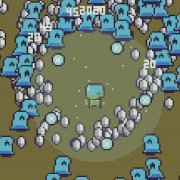
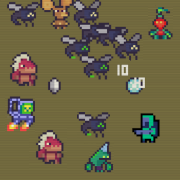
change sprites

diff --git a/src/asset.ts b/src/asset.ts
@@ -1,53 +1,55 @@
 import { CTX, texture } from "./core/canvas"
 
-const img = async (data: string) => {
-    const obj = new Image()
-    obj.src = data
-    await new Promise((resolve) => {
-        obj.onload = resolve
-    })
-    return obj
+const img = async (url: string) => {
+    const img = new Image()
+    img.src = url
+    await img.decode()
+    return img
 }
 
 export type Assets = Awaited<ReturnType<typeof loadAssets>>
 
 export const loadAssets = async () => {
-    const hero = await img(
[1 lines of base64/hex data omitted]
-    )
-    const mob0 = await img(
[1 lines of base64/hex data omitted]
-    )
-    const mob1 = await img(
[1 lines of base64/hex data omitted]
-    )
-    const mob2 = await img(
[1 lines of base64/hex data omitted]
-    )
-    const mob3 = await img(
[1 lines of base64/hex data omitted]
-    )
-    const coin = await img(
[1 lines of base64/hex data omitted]
-    )
-    const bullet = await img(
[1 lines of base64/hex data omitted]
-    )
-    const elements = await img(
[1 lines of base64/hex data omitted]
-    )
-    const rocks = await img(
[1 lines of base64/hex data omitted]
-    )
-    const crate = await img(
[1 lines of base64/hex data omitted]
-    )
-    const saber = await img(
[1 lines of base64/hex data omitted]
-    )
-    const orb = await img(
[1 lines of base64/hex data omitted]
-    )
+    const urls = [
+        "./assets/hero.png",
+
+        "./assets/mob0.png",
+        "./assets/mob1.png",
+        "./assets/mob2.png",
+        "./assets/mob3.png",
+        "./assets/mob0boss.png",
+        "./assets/mob1boss.png",
+        "./assets/mob2boss.png",
+        "./assets/mob3boss.png",
+
+        "./assets/coin.png",
+        "./assets/bullet.png",
+        "./assets/elements.png",
+        "./assets/rocks.png",
+        "./assets/saber.png",
+        "./assets/orb.png",
+    ]
+    const assetsLoaded = urls.map(img)
+
+    const [
+        hero,
+
+        mob0,
+        mob1,
+        mob2,
+        mob3,
+        mob0boss,
+        mob1boss,
+        mob2boss,
+        mob3boss,
+
+        coin,
+        bullet,
+        elements,
+        rocks,
+        saber,
+        orb,
+    ] = await Promise.all(assetsLoaded)
 
     // included normal and flipped versions for asymmetric sprites
     // note: make sure spritesheet frames are always in 1 row
@@ -56,16 +58,16 @@ export const loadAssets = async () => {
         hero: [
             // normal
             texture((ctx) => frame(ctx, hero, 0, 0, 16, 0), 16, 16),
+            texture((ctx) => frame(ctx, hero, 0, 0, 16, 0), 16, 16),
+            texture((ctx) => frame(ctx, hero, 0, 0, 16, 0), 16, 16),
             texture((ctx) => frame(ctx, hero, 0, 0, 16, 1), 16, 16),
             texture((ctx) => frame(ctx, hero, 0, 0, 16, 2), 16, 16),
-            texture((ctx) => frame(ctx, hero, 0, 0, 16, 3), 16, 16),
-            texture((ctx) => frame(ctx, hero, 0, 0, 16, 4), 16, 16),
             // flipped
+            texture((ctx) => flipFrame(ctx, hero, 0, 0, 16, 0), 16, 16),
+            texture((ctx) => flipFrame(ctx, hero, 0, 0, 16, 0), 16, 16),
             texture((ctx) => flipFrame(ctx, hero, 0, 0, 16, 0), 16, 16),
             texture((ctx) => flipFrame(ctx, hero, 0, 0, 16, 1), 16, 16),
             texture((ctx) => flipFrame(ctx, hero, 0, 0, 16, 2), 16, 16),
-            texture((ctx) => flipFrame(ctx, hero, 0, 0, 16, 3), 16, 16),
-            texture((ctx) => flipFrame(ctx, hero, 0, 0, 16, 4), 16, 16),
         ],
         mob0: [
             // normal
@@ -107,8 +109,47 @@ export const loadAssets = async () => {
             texture((ctx) => flipFrame(ctx, mob3, 0, 0, 16, 1), 16, 16),
             texture((ctx) => flipFrame(ctx, mob3, 0, 0, 16, 2), 16, 16),
         ],
+        mob0boss: [
+            // normal
+            texture((ctx) => frame(ctx, mob0boss, 0, 0, 16, 0), 16, 16),
+            texture((ctx) => frame(ctx, mob0boss, 0, 0, 16, 1), 16, 16),
+            texture((ctx) => frame(ctx, mob0boss, 0, 0, 16, 2), 16, 16),
+            //flipped
+            texture((ctx) => flipFrame(ctx, mob0boss, 0, 0, 16, 0), 16, 16),
+            texture((ctx) => flipFrame(ctx, mob0boss, 0, 0, 16, 1), 16, 16),
+            texture((ctx) => flipFrame(ctx, mob0boss, 0, 0, 16, 2), 16, 16),
+        ],
+        mob1boss: [
+            // normal
+            texture((ctx) => frame(ctx, mob1boss, 0, 0, 16, 0), 16, 16),
+            texture((ctx) => frame(ctx, mob1boss, 0, 0, 16, 1), 16, 16),
+            texture((ctx) => frame(ctx, mob1boss, 0, 0, 16, 2), 16, 16),
+            //flipped
+            texture((ctx) => flipFrame(ctx, mob1boss, 0, 0, 16, 0), 16, 16),
+            texture((ctx) => flipFrame(ctx, mob1boss, 0, 0, 16, 1), 16, 16),
+            texture((ctx) => flipFrame(ctx, mob1boss, 0, 0, 16, 2), 16, 16),
+        ],
+        mob2boss: [
+            // normal
+            texture((ctx) => frame(ctx, mob2boss, 0, 0, 16, 0), 16, 16),
+            texture((ctx) => frame(ctx, mob2boss, 0, 0, 16, 1), 16, 16),
+            texture((ctx) => frame(ctx, mob2boss, 0, 0, 16, 2), 16, 16),
+            //flipped
+            texture((ctx) => flipFrame(ctx, mob2boss, 0, 0, 16, 0), 16, 16),
+            texture((ctx) => flipFrame(ctx, mob2boss, 0, 0, 16, 1), 16, 16),
+            texture((ctx) => flipFrame(ctx, mob2boss, 0, 0, 16, 2), 16, 16),
+        ],
+        mob3boss: [
+            // normal
+            texture((ctx) => frame(ctx, mob3boss, 0, 0, 16, 0), 16, 16),
+            texture((ctx) => frame(ctx, mob3boss, 0, 0, 16, 1), 16, 16),
+            texture((ctx) => frame(ctx, mob3boss, 0, 0, 16, 2), 16, 16),
+            //flipped
+            texture((ctx) => flipFrame(ctx, mob3boss, 0, 0, 16, 0), 16, 16),
+            texture((ctx) => flipFrame(ctx, mob3boss, 0, 0, 16, 1), 16, 16),
+            texture((ctx) => flipFrame(ctx, mob3boss, 0, 0, 16, 2), 16, 16),
+        ],
         bullet,
-        crate,
         saber,
         orb,
         eHeart: texture((ctx) => frame(ctx, elements, 0, 0, 8, 0), 8, 8),

diff --git a/src/mob.ts b/src/mob.ts
@@ -442,14 +442,26 @@ export const loadMob = () => {
                 boss,
             ) => {
                 const dirOffset = flipped ? 3 : 0
-                const asset =
-                    type === MobType.blob
-                        ? assets.mob0
-                        : type === MobType.fly
-                          ? assets.mob1
-                          : type === MobType.zombie
-                            ? assets.mob2
-                            : assets.mob3
+                let asset
+                if (boss) {
+                    asset =
+                        type === MobType.blob
+                            ? assets.mob0boss
+                            : type === MobType.fly
+                              ? assets.mob1boss
+                              : type === MobType.zombie
+                                ? assets.mob2boss
+                                : assets.mob3boss
+                } else {
+                    asset =
+                        type === MobType.blob
+                            ? assets.mob0
+                            : type === MobType.fly
+                              ? assets.mob1
+                              : type === MobType.zombie
+                                ? assets.mob2
+                                : assets.mob3
+                }
                 const frame = asset[frames[currentFrame] + dirOffset]
 
                 // blink if damaged
@@ -458,15 +470,6 @@ export const loadMob = () => {
                 }
 
                 ctx.drawImage(frame, ~~(x - cam.x), ~~(y - cam.y))
-                if (boss) {
-                    ctx.fillStyle = WHITE
-                    ctx.font = "10px Arial"
-                    ctx.fillText(
-                        "☠",
-                        ~~(x - cam.x + MOB_SIZE / 2),
-                        ~~(y - cam.y + MOB_SIZE / 2 - 2),
-                    )
-                }
                 // draw collision rect
                 //if (DEBUG) {
                 //    ctx.strokeStyle = BLACK0

diff --git a/src/main.ts b/src/main.ts
@@ -32,11 +32,11 @@ loadSounds()
             return { score: 0, time: 0 }
         },
     })
+
+    console.log("loading assets...")
     const assets = await loadAssets()
-    // display note if device is in portrait
-    if (innerWidth < innerHeight) {
-        alert("for best experience use landscape mode")
-    }
+    console.log("Done loading assets")
+
     loadIntro()
     ;(onresize = () => {
         resize(offscreenCanvas, WIDTH, HEIGHT)

diff --git a/src/ui.ts b/src/ui.ts
@@ -223,7 +223,7 @@ export const renderUI = (ctx: CTX, assets: Assets) => {
             ctx.fillStyle = WHITE
             renderFontTex(
                 ctx,
-                "XIICUR SURVIIVORS\nA JS13K 2024 GAME\nMADE BY SAUD WWW.SAUD.WTF\n\nLOADING...",
+                "XIICUR SURVIIVORS\nINITIAL CREATOR: SAUD WWW.SAUD.WTF\nWEBXDC PORT BY DELTAZEN\n\nLOADING...",
                 20,
                 20,
             )

diff --git a/README.md b/README.md
@@ -69,16 +69,9 @@ git push origin v1.0.1
 
 ## Credits
 
--   This is a port to Webxdc of [Xiicur Survivors](https://github.com/rottencandy/js13k2024) originally written by [rottencandy](https://github.com/rottencandy) for [js13k 2024](https://js13kgames.com/) game jam
+-   This is a fork of https://github.com/rottencandy/js13k2024
+-   CRT Shader: https://www.shadertoy.com/view/WsVSzV
 -   [Zzfxm](https://github.com/keithclark/ZzFXM) for music
-
-Color palette: https://lospec.com/palette-list/cc-29
-
-CRT Shader: https://www.shadertoy.com/view/WsVSzV
-
-Art inspiration:
-
--   https://trevor-pupkin.itch.io/outer-buddies
--   https://trevor-pupkin.itch.io/tech-dungeon-roguelite
--   https://trevor-pupkin.itch.io/minimal-dungeon
--   https://bagong-games.itch.io/hana-caraka-base-character
+-   Hero sprite is a modification of: https://trevor-pupkin.itch.io/outer-buddies
+-   mob0, mob0boss, mob2, mob2boss and mob3 images inspired by: https://opengameart.org/content/frogatto-friends-npc-pack
+-   mob3boss image inspired by: https://opengameart.org/content/super-dead-gunner-reaperbot-enemy
